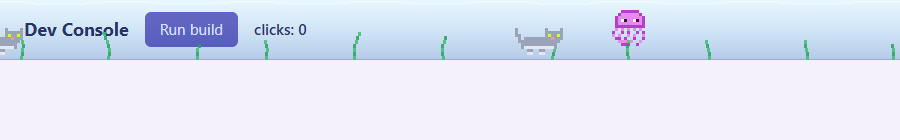
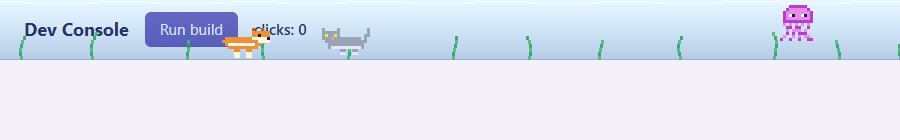
add bunny and fill background with grass

diff --git a/src/overlay.js b/src/overlay.js
@@ -243,6 +243,9 @@
         }
       }
 
+      if (NS.hasKittyGarden(this.sim.mode)) this._renderKittyGarden(ctx, w);
+      if (NS.hasBunnyGarden(this.sim.mode)) this._renderBunnyGarden(ctx, w);
+
       for (const b of this.sim.ink.blots) {
         ctx.globalAlpha = 0.6 * (1 - b.age / b.life);
         ctx.fillStyle = '#231946';
@@ -254,6 +257,50 @@
 
       for (const pet of this.sim.pets) NS.drawPet(ctx, pet);
       ctx.restore();
+    }
+
+    _renderKittyGarden(ctx, width) {
+      ctx.fillStyle = '#77b94b';
+      ctx.fillRect(0, BAND - 12, width, 12);
+      ctx.fillStyle = '#a6d968';
+      ctx.fillRect(0, BAND - 12, width, 3);
+      for (let x = 4; x < width; x += 13) {
+        const height = 2 + (Math.floor(x / 13) % 3);
+        ctx.fillStyle = '#4d963c';
+        ctx.fillRect(x, BAND - 13 - height, 2, height);
+      }
+      for (let x = 27; x < width; x += 103) {
+        const y = BAND - 7 - (Math.floor(x / 103) % 2) * 2;
+        ctx.fillStyle = '#777a83';
+        ctx.fillRect(x, y, 10, 4);
+        ctx.fillStyle = '#a1a2a5';
+        ctx.fillRect(x + 2, y - 2, 5, 2);
+        ctx.fillStyle = '#535762';
+        ctx.fillRect(x + 1, y + 3, 8, 1);
+      }
+    }
+
+    _renderBunnyGarden(ctx, width) {
+      ctx.fillStyle = '#75b84b';
+      ctx.fillRect(0, BAND - 12, width, 12);
+      ctx.fillStyle = '#a5d966';
+      ctx.fillRect(0, BAND - 12, width, 3);
+      for (let x = 5; x < width; x += 12) {
+        const height = 2 + (Math.floor(x / 12) % 3);
+        ctx.fillStyle = '#4b923c';
+        ctx.fillRect(x, BAND - 13 - height, 2, height);
+      }
+      for (let x = 43; x < width; x += 157) {
+        const groundY = BAND - 5;
+        ctx.fillStyle = '#f47a28';
+        ctx.fillRect(x + 2, groundY - 7, 5, 5);
+        ctx.fillRect(x + 3, groundY - 2, 3, 2);
+        ctx.fillRect(x + 4, groundY, 1, 2);
+        ctx.fillStyle = '#55a64a';
+        ctx.fillRect(x + 1, groundY - 9, 3, 2);
+        ctx.fillRect(x + 5, groundY - 10, 3, 2);
+        ctx.fillRect(x + 4, groundY - 8, 2, 2);
+      }
     }
 
     _renderParticles() {

diff --git a/tests/e2e/extension.spec.js b/tests/e2e/extension.spec.js
@@ -123,6 +123,28 @@ test('pets mode off leaves the band untouched', async () => {
   await page.close();
 });
 
+test('Kitties mode adds grass and rocks while Corgis mode does not', async () => {
+  const kitty = await open({ enabled: false, mode: 'kitty' });
+  const kittyBand = await shot(kitty, { x: 0, y: 42, width: 900, height: 18 });
+  await kitty.close();
+
+  const corgi = await open({ enabled: false, mode: 'corgi' });
+  const corgiBand = await shot(corgi, { x: 0, y: 42, width: 900, height: 18 });
+  expect(differs(kittyBand, corgiBand)).toBe(true);
+  await corgi.close();
+});
+
+test('Bunny mode adds grass and carrots while Corgis mode does not', async () => {
+  const bunny = await open({ enabled: false, mode: 'bunny' });
+  const bunnyBand = await shot(bunny, { x: 0, y: 42, width: 900, height: 18 });
+  await bunny.close();
+
+  const corgi = await open({ enabled: false, mode: 'corgi' });
+  const corgiBand = await shot(corgi, { x: 0, y: 42, width: 900, height: 18 });
+  expect(differs(bunnyBand, corgiBand)).toBe(true);
+  await corgi.close();
+});
+
 test('Power Mode off shows pets but no counter', async () => {
   const page = await open({ enabled: false, mode: 'corgi' });
   const base = await shot(page, COUNTER);
@@ -160,5 +182,8 @@ test('popup persists choices to chrome.storage.local', async () => {
   expect(typeof saved.dpmcSettings.enabled).toBe('boolean');
   await popup.reload();
   await expect(popup.locator('input[value="octopus"]')).toBeChecked();
+  await popup.locator('label.card', { hasText: 'Bunny' }).click();
+  const bunnySettings = await popup.evaluate(() => chrome.storage.local.get('dpmcSettings'));
+  expect(bunnySettings.dpmcSettings.mode).toBe('bunny');
   await popup.close();
 });

diff --git a/src/sprites.js b/src/sprites.js
@@ -7,6 +7,7 @@
     o: '#e8923a', d: '#b8651f', w: '#fff4e0', k: '#2b1d1a',
     g: '#9aa3b8', y: '#c7ff3d', p: '#ff8fab', l: '#e3e7f2',
     m: '#b43fc9', M: '#e58bf0', W: '#ffffff',
+    u: '#f4eee8', v: '#d4c1b5', q: '#ff9cad',
   };
 
   const CORGI_BODY = [
@@ -37,6 +38,20 @@
     ['....gg..gg......', '....ll..ll......', '................'],
   ];
 
+  const BUNNY_BODY = [
+    '.....uu..uu.....',
+    '.....uq..qu.....',
+    '.....uq..qu.....',
+    '.....uuuuuu.....',
+    '...uuuuuuuuuu...',
+    '..uuu..uuuuuuu..',
+    '.uuuu..uuuuuuuu.',
+  ];
+  const BUNNY_LEGS = [
+    ['.uuu...uuuuuuu..', '..uu...uu..uu...', '..uu...uu..uu...'],
+    ['...uuu.uuuuuuu..', '....uu.uu..uu...', '....uu.uu..uu...'],
+  ];
+
   const OCTOPUS_HEAD = [
     '...mmmmmm...',
     '..mMMMMMMm..',
@@ -51,12 +66,14 @@
   const SPRITES = {
     corgi: [CORGI_BODY.concat(CORGI_LEGS[0]), CORGI_BODY.concat(CORGI_LEGS[1])],
     kitty: [KITTY_BODY.concat(KITTY_LEGS[0]), KITTY_BODY.concat(KITTY_LEGS[1])],
+    bunny: [BUNNY_BODY.concat(BUNNY_LEGS[0]), BUNNY_BODY.concat(BUNNY_LEGS[1])],
   };
 
   const SCALE = 3;
   const PET_SIZE = {
     corgi: { w: 16 * SCALE, h: 10 * SCALE },
     kitty: { w: 16 * SCALE, h: 10 * SCALE },
+    bunny: { w: 16 * SCALE, h: 10 * SCALE },
     octopus: { w: 12 * SCALE, h: (OCTOPUS_HEAD.length + TENTACLE_LEN) * SCALE },
   };
 

diff --git a/src/core.js b/src/core.js
@@ -4,7 +4,7 @@
   const NS = (root.DPMC = root.DPMC || {});
 
   const STORAGE_KEY = 'dpmcSettings';
-  const MODES = ['all', 'corgi-kitty', 'corgi', 'kitty', 'octopus', 'off'];
+  const MODES = ['all', 'corgi-kitty', 'corgi', 'kitty', 'octopus', 'bunny', 'off'];
   const DEFAULT_SETTINGS = Object.freeze({ enabled: true, mode: 'all' });
 
   const COMBO_TIMEOUT_MS = 1500;
@@ -15,11 +15,12 @@
   const IME_ECHO_MS = 20;
 
   const PET_POOLS = {
-    all: ['corgi', 'kitty', 'octopus'],
+    all: ['corgi', 'kitty', 'octopus', 'bunny'],
     'corgi-kitty': ['corgi', 'kitty'],
     corgi: ['corgi'],
     kitty: ['kitty'],
     octopus: ['octopus'],
+    bunny: ['bunny'],
     off: [],
   };
 
@@ -47,6 +48,14 @@
 
   function hasWater(mode) {
     return mode === 'all' || mode === 'octopus';
+  }
+
+  function hasKittyGarden(mode) {
+    return mode === 'kitty';
+  }
+
+  function hasBunnyGarden(mode) {
+    return mode === 'bunny';
   }
 
   // Duck-typed so it can be unit-tested with plain objects.
@@ -131,6 +140,8 @@
     normalizeSettings,
     petPool,
     hasWater,
+    hasKittyGarden,
+    hasBunnyGarden,
     isEligibleEditable,
     describeKey,
     classifyInput,

diff --git a/tests/unit/core.test.js b/tests/unit/core.test.js
@@ -14,13 +14,19 @@ test('normalizeSettings applies defaults and rejects bad values', () => {
 });
 
 test('pet pools and water per mode', () => {
-  assert.deepEqual(D.petPool('all'), ['corgi', 'kitty', 'octopus']);
+  assert.deepEqual(D.petPool('all'), ['corgi', 'kitty', 'octopus', 'bunny']);
   assert.deepEqual(D.petPool('corgi-kitty'), ['corgi', 'kitty']);
   assert.deepEqual(D.petPool('off'), []);
+  assert.deepEqual(D.petPool('bunny'), ['bunny']);
   assert.equal(D.hasWater('all'), true);
   assert.equal(D.hasWater('octopus'), true);
   assert.equal(D.hasWater('corgi-kitty'), false);
   assert.equal(D.hasWater('off'), false);
+  assert.equal(D.hasKittyGarden('kitty'), true);
+  assert.equal(D.hasKittyGarden('all'), false);
+  assert.equal(D.hasKittyGarden('corgi'), false);
+  assert.equal(D.hasBunnyGarden('bunny'), true);
+  assert.equal(D.hasBunnyGarden('all'), false);
 });
 
 test('isEligibleEditable accepts text fields and contenteditable only', () => {

diff --git a/tests/unit/sim.test.js b/tests/unit/sim.test.js
@@ -10,7 +10,7 @@ function seeded(seed = 1) {
 }
 
 test('sprite grids are rectangular and use known palette keys', () => {
-  const grids = [...D.SPRITES.corgi, ...D.SPRITES.kitty, D.OCTOPUS_HEAD];
+  const grids = [...D.SPRITES.corgi, ...D.SPRITES.kitty, ...D.SPRITES.bunny, D.OCTOPUS_HEAD];
   for (const rows of grids) {
     const w = rows[0].length;
     for (const row of rows) {
@@ -22,6 +22,8 @@ test('sprite grids are rectangular and use known palette keys', () => {
   assert.equal(D.SPRITES.corgi[0][0].length * D.PET_SCALE, D.PET_SIZE.corgi.w);
   assert.equal(D.SPRITES.kitty[0][0].length * D.PET_SCALE, D.PET_SIZE.kitty.w);
   assert.equal(D.SPRITES.kitty[0].length * D.PET_SCALE, D.PET_SIZE.kitty.h);
+  assert.equal(D.SPRITES.bunny[0][0].length * D.PET_SCALE, D.PET_SIZE.bunny.w);
+  assert.equal(D.SPRITES.bunny[0].length * D.PET_SCALE, D.PET_SIZE.bunny.h);
   assert.equal(D.OCTOPUS_HEAD[0].length * D.PET_SCALE, D.PET_SIZE.octopus.w);
 });
 

diff --git a/popup/popup.html b/popup/popup.html
@@ -23,6 +23,7 @@
       <label class="card"><input type="radio" name="mode" value="corgi"><canvas data-preview="corgi" width="96" height="40"></canvas><span>Corgis</span></label>
       <label class="card"><input type="radio" name="mode" value="kitty"><canvas data-preview="kitty" width="96" height="40"></canvas><span>Kitties</span></label>
       <label class="card"><input type="radio" name="mode" value="octopus"><canvas data-preview="octopus" width="96" height="40"></canvas><span>Octopus</span></label>
+      <label class="card"><input type="radio" name="mode" value="bunny"><canvas data-preview="bunny" width="96" height="40"></canvas><span>Bunny</span></label>
       <label class="card"><input type="radio" name="mode" value="off"><canvas data-preview="off" width="96" height="40"></canvas><span>Off</span></label>
     </div>
   </fieldset>

diff --git a/popup/popup.js b/popup/popup.js
@@ -54,7 +54,7 @@
         ctx.fillRect(0, 0, canvas.width, canvas.height);
       }
       const kinds = p.mode === 'all' || p.mode === 'corgi-kitty' ? p.species : [p.species[0]];
-      const scale = 2;
+      const scale = kinds.length > 2 ? 1 : 2;
       const widths = kinds.map((s) => D.PET_SIZE[s].w * scale / 3);
       const gap = (canvas.width - widths.reduce((a, b) => a + b, 0)) / (kinds.length + 1);
       let x = gap;

diff --git a/README.md b/README.md
@@ -1,12 +1,12 @@
 # Developer Power Mode Combo
 
-A local-only Chrome Manifest V3 extension. Typing in text fields builds an arcade combo with neon sparks, while original pixel-art **Corgis, Kitties and Octopuses** wander across the top 60 pixels of the page.
+A local-only Chrome Manifest V3 extension. Typing in text fields builds an arcade combo with neon sparks, while original pixel-art **Corgis, Kitties, Octopuses and Bunnies** wander across the top 60 pixels of the page.
 
 ![Animated demo](docs/power-mode.gif)
 
-| Combo counter and sparks | All pets | Octopus mode with ink |
-| --- | --- | --- |
-| ![Combo](docs/combo-sparks.png) | ![Pets](docs/pets-all.png) | ![Octopus](docs/octopus-ink.png) |
+| Combo counter and sparks | All pets | Octopus mode with ink | Bunny garden |
+| --- | --- | --- | --- |
+| ![Combo](docs/combo-sparks.png) | ![Pets](docs/pets-all.png) | ![Octopus](docs/octopus-ink.png) | ![Bunny garden](docs/bunny-garden.png) |
 
 Popup settings: ![Popup](docs/popup.png)
 
@@ -25,9 +25,11 @@ No build step, backend, API keys, background worker or store publishing is neede
 
 - **Combo**: counter appears from 2 hits, neon sparks at the caret from 3 hits, and the overlay (never the page) shakes briefly on every 10th hit.
 - **Reset**: after 1.5 s without a counted edit, or when focus moves to a different editor.
-- **Pets**: Corgis, Kitties and Octopuses animate independently of typing, continue while the page is idle and respawn automatically. Octopuses swim with moving tentacles and release spreading, fading ink clouds.
+- **Pets**: Corgis, Kitties, Octopuses and Bunnies animate independently of typing, continue while the page is idle and respawn automatically. Octopuses swim with moving tentacles and release spreading, fading ink clouds.
 - **Water and seaweed**: translucent water and swaying seaweed in *Octopus* and *All pets* modes.
-- **Modes**: All pets, Corgis & Kitties, Corgis, Kitties, Octopus, Off. Preferences are stored in `chrome.storage.local`.
+- **Kitty garden**: pixel grass and rocks fill the top band in *Kitties* mode.
+- **Bunny garden**: pixel grass and carrots fill the top band in *Bunny* mode.
+- **Modes**: All pets, Corgis & Kitties, Corgis, Kitties, Octopus, Bunny, Off. Preferences are stored in `chrome.storage.local`.
 
 ## What counts as a hit
 
